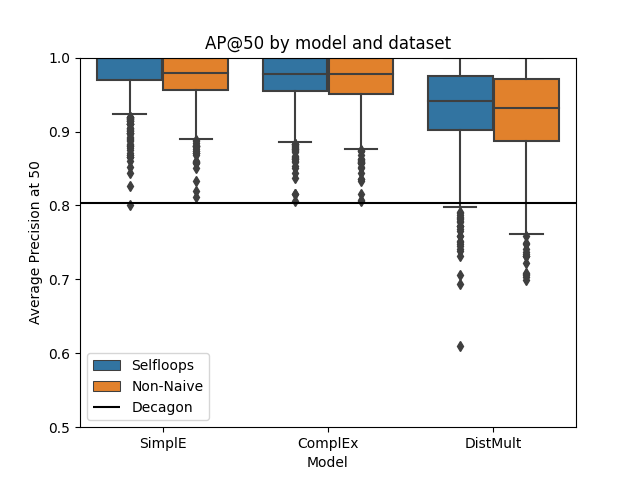
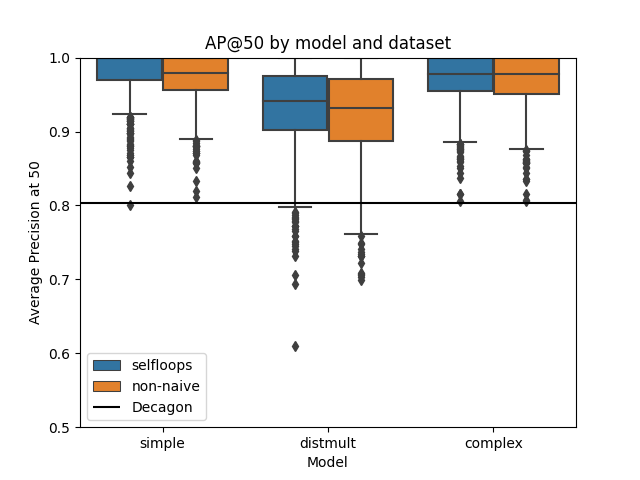
Updated figures

diff --git a/analysis/assessment/best_trials_assess/viz.py b/analysis/assessment/best_trials_assess/viz.py
@@ -19,11 +19,12 @@ name_format = {
 # Load result data
 results = pd.DataFrame()
 for loc in listdir():
-    if '.' not in loc:
+    if loc.startswith('2023'):
         df = pd.read_csv(f'{loc}/results_full.csv')
-        components = loc.split('_')
-        df['model'] = name_format[components[0]]
-        df['dataset'] = name_format[components[1]]
+        name = loc[16:]
+        model, dataset = name.split('_')
+        df['model'] = model
+        df['dataset'] = dataset
         results = results.append(df)
 
 # Remove untrained model scores if not desired
@@ -45,20 +46,22 @@ decagon_scores = {
 }
 
 # Draw performance results
+plot_other_scores = False
 for metric in results.columns[1:4]:
     sns.boxplot(x='model', y=metric, hue='dataset', data=results)
     plt.hlines(
         decagon_scores[metric], xmin, xmax,
         label='Decagon', colors='black'
     )
-    if metric == 'AUROC':
-        plt.hlines(0.975, xmin, xmax, label='SimVec', colors='green')
-        plt.hlines(0.966, xmin, xmax, label='NNPS', colors='blue')
-        plt.hlines(0.998, xmin, xmax, label='GAT', linestyles='dashed', colors='red')
-    elif metric == 'AUPRC':
-        plt.hlines(0.968, xmin, xmax, label='SimVec', colors='green')
-        plt.hlines(0.953, xmin, xmax, label='NNPS', colors='blue')
-        plt.hlines(0.998, xmin, xmax, label='GAT', linestyles='dashed', colors='red')
+    if plot_other_scores:
+        if metric == 'AUROC':
+            plt.hlines(0.998, xmin, xmax, label='Carletti\'s', linestyles='dashed', colors='red')
+            plt.hlines(0.99, xmin, xmax, label='DSN-DDI', colors='green')
+            plt.hlines(0.98, xmin, xmax, label='ADGCL', colors='blue')
+        elif metric == 'AUPRC':
+            plt.hlines(0.998, xmin, xmax, label='Carletti\'s', linestyles='dashed', colors='red')
+            plt.hlines(0.983, xmin, xmax, label='MS-ADR', colors='green')
+            plt.hlines(0.98, xmin, xmax, label='ADGCL', colors='blue')
 
     plt.xlim(xmin, xmax)
     plt.ylim(0.5 if metric == "AP@50" else ymin, ymax)
